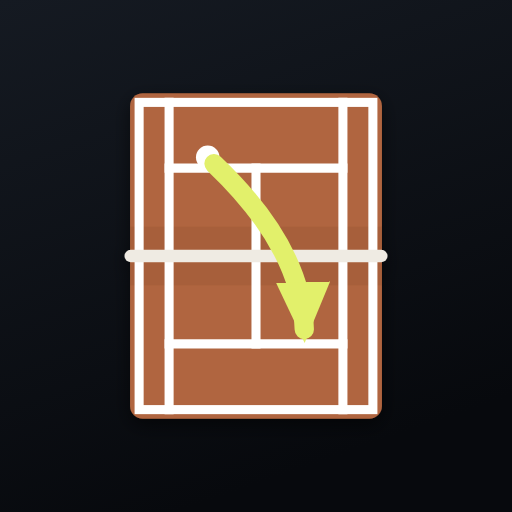
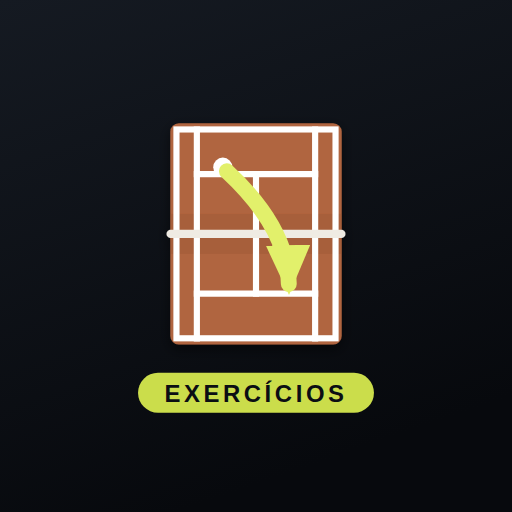
JV verde-limao na Gestao e no Aluno, e EXERCICIOS escrito na quadra
Os tres apps da JV ficam lado a lado na tela de inicio. A arte da Gestao e
do Aluno continua a original: mudou so' o "JV", que era branco e agora e'
limao (#DDEE66, o mesmo tom do risco sob a marca, um pouco mais claro que o
"TENIS" abaixo dele). A pastilha embaixo ja' separava um do outro.

O ICONE DO BANCO ganhou a mesma pastilha, com EXERCICIOS escrito, e a
quadra encolheu para abrir lugar para ela. A borda limao recuou para
0.072 do lado, como a dos outros dois, para os tres terem o mesmo peso
na tela. Na versao maskable a escala caiu de 0.82 para 0.72: com a
pastilha o desenho ficou mais largo, e as pontas dela passavam do circulo
seguro que o Android recorta. Conferido por contagem de pixels: nenhum
pixel de desenho fora do circulo.

ferramentas/pintar-jv-limao.py faz a repintura. Ele troca a cor de todo
pixel claro e sem cor, mantendo o brilho de cada um, para que a sombra e
as bordas suavizadas nao mudem. Rodar de novo e' seguro: sobram uns dez
pixels de borda, que mudam de um tom e param.

banco-exercicios-jv.html entrou no .gitignore. E' o arquivo unico gerado
para o Netlify, e o site publico sai deste repositorio — commitar esse
arquivo poria o material de formacao no ar.

Claude-Session: https://claude.ai/code/session_014FKkHpNzg71Vb3bUZ4TcyT

Changed region(s): [[0.25, 0.1562, 0.75, 0.8438]]

diff --git a/ferramentas/gerar-icone-exercicios.js b/ferramentas/gerar-icone-exercicios.js
@@ -3,8 +3,9 @@
    Por que existe: os apps da JV usam todos o mesmo logo, e na tela de inicio
    do celular viram tres icones iguais. Este aqui se diferencia pelo ASSUNTO —
    a quadra de saibro vista de cima, com o trajeto da bola — que e' exatamente
-   a linguagem dos 116 desenhos do banco. A familia se mantem pelo preto e pelo
-   verde-limao da marca (tirados do proprio icone da Gestao).
+   a linguagem dos 116 desenhos do banco. A familia se mantem pelo preto, pelo
+   verde-limao da marca e pela pastilha com o nome embaixo — os tres detalhes
+   tirados do proprio icone da Gestao, que tem "GESTAO" escrito no mesmo lugar.
 
    Uso, a partir da raiz do repositorio:
        node ferramentas/gerar-icone-exercicios.js
@@ -41,13 +42,29 @@ function quadra(cx, cy, larg, alt){
 }
 
 /* O trajeto da bola: a assinatura dos desenhos do banco. */
-function trajeto(S, k){
+function trajeto(S){
+  const cy = 0.440;                 // o mesmo centro da quadra
   return `
-    <circle cx="${S*(0.5-0.115*k)}" cy="${S*(0.5-0.235*k)}" r="${S*0.028*k}" fill="#fff"/>
-    <path d="M ${S*(0.5-0.10*k)} ${S*(0.5-0.22*k)}
-             Q ${S*(0.5+0.11*k)} ${S*(0.5-0.02*k)} ${S*(0.5+0.115*k)} ${S*(0.5+0.175*k)}"
-      fill="none" stroke="${LIMA_CLARO}" stroke-width="${S*0.046*k}" stroke-linecap="round"
+    <circle cx="${S*(0.5-0.090)}" cy="${S*(cy-0.181)}" r="${S*0.026}" fill="#fff"/>
+    <path d="M ${S*(0.5-0.079)} ${S*(cy-0.170)}
+             Q ${S*(0.5+0.086)} ${S*(cy-0.017)} ${S*(0.5+0.089)} ${S*(cy+0.136)}"
+      fill="none" stroke="${LIMA_CLARO}" stroke-width="${S*0.043}" stroke-linecap="round"
       marker-end="url(#pta)"/>`;
+}
+
+/* A pastilha com o nome, na mesma altura em que a Gestao e o Aluno trazem a
+   delas: encostada na borda de baixo, limao com a letra escura. */
+function rotulo(S){
+  const larg = S*0.64, alt = S*0.108;
+  const x = (S-larg)/2, y = S*0.925 - alt;
+  return `
+    <g>
+      <rect x="${x}" y="${y}" width="${larg}" height="${alt}" rx="${alt/2}" fill="${LIMA}"/>
+      <text x="${S*0.5}" y="${y+alt*0.72}" text-anchor="middle"
+            font-family="Liberation Sans, Arial, sans-serif" font-weight="700"
+            font-size="${alt*0.60}" letter-spacing="${alt*0.09}"
+            fill="#0B0E13">EXERC\u00cdCIOS</text>
+    </g>`;
 }
 
 /* `mascara` = versao para Android, que recorta o icone num circulo: o desenho
@@ -57,7 +74,9 @@ function svgIcone(S, mascara){
   // mascara deles. Arredondar aqui tambem arredondava duas vezes, e sobrava
   // uma casquinha preta na borda do icone na tela de inicio.
   const r = 0;
-  const k = mascara ? 0.82 : 1;               // escala do conteudo
+  // 0.72 e nao 0.82: com a pastilha, o desenho ficou mais largo e mais alto,
+  // e as pontas dela passavam do circulo seguro que o Android recorta.
+  const k = mascara ? 0.72 : 1;               // escala do conteudo
   return `<svg xmlns="http://www.w3.org/2000/svg" width="${S}" height="${S}" viewBox="0 0 ${S} ${S}">
     <defs>
       <linearGradient id="fundo" x1="0" y1="0" x2="0.35" y2="1">
@@ -70,10 +89,13 @@ function svgIcone(S, mascara){
       </filter>
     </defs>
     <rect width="${S}" height="${S}" rx="${r}" fill="url(#fundo)"/>
-    ${mascara ? '' : `<rect x="${S*0.052}" y="${S*0.052}" width="${S*0.896}" height="${S*0.896}"
+    ${mascara ? '' : `<rect x="${S*0.072}" y="${S*0.072}" width="${S*0.856}" height="${S*0.856}"
       rx="${S*0.17}" fill="none" stroke="${LIMA}" stroke-width="${S*0.026}"/>`}
-    <g filter="url(#sombra)">${quadra(S*0.5, S*0.5, S*0.60*k, S*0.775*k)}</g>
-    ${trajeto(S, k)}
+    <g transform="translate(${S*0.5} ${S*0.5}) scale(${k}) translate(${-S*0.5} ${-S*0.5})">
+      <g filter="url(#sombra)">${quadra(S*0.5, S*0.440, S*0.465, S*0.600)}</g>
+      ${trajeto(S)}
+      ${rotulo(S)}
+    </g>
   </svg>`;
 }
 

diff --git a/ferramentas/pintar-jv-limao.py b/ferramentas/pintar-jv-limao.py
@@ -1,0 +1,99 @@
+#!/usr/bin/env python3
+# -*- coding: utf-8 -*-
+"""Pinta de verde-limao o "JV" dos icones e das splashes da JV Tenis.
+
+   Por que existe: os tres apps (Gestao, Aluno e Exercicios) aparecem lado a
+   lado na tela de inicio do celular. O "JV" branco era o mesmo nos dois
+   primeiros; em verde-limao ele fica sendo a mesma marca, mas com a cor da
+   casa, e o rotulo embaixo (GESTAO / ALUNO) continua separando um do outro.
+
+   Como funciona: dentro da arte, so' o "JV" e' branco — o "TENIS", o risco e
+   a borda ja' sao limao, e o fundo e' quase preto. Entao troca-se a cor de
+   todo pixel claro e sem cor (cinza/branco), mantendo o brilho de cada um,
+   para que a sombra e as bordas suavizadas do desenho continuem iguais.
+
+   Rodar de novo e' seguro: depois da primeira passada sobram uns dez pixels
+   da borda suavizada, que mudam de um tom e param — nao ha' acumulo.
+
+   Uso, a partir da raiz do repositorio:
+       python3 ferramentas/pintar-jv-limao.py            # arquivos do repo
+       python3 ferramentas/pintar-jv-limao.py a.png b.png  # arquivos avulsos
+"""
+import sys, os, colorsys
+from PIL import Image
+
+# O limao claro, e nao o #CBDD4B da borda: assim o "JV" continua mais claro
+# que o "TENIS" embaixo dele, como era quando o "JV" ainda era branco.
+LIMA = (0xDD, 0xEE, 0x66)
+
+# Ate' onde um pixel ainda conta como "sem cor" (0 = cinza puro, 1 = cor viva).
+SAT_CHEIA, SAT_ZERO = 0.16, 0.30
+VALOR_MIN = 0.28                 # abaixo disso e sombra do fundo, nao o logo
+
+ARQUIVOS = [
+    'app-gestao/jv-icone-gestao.png',
+    'app-gestao/jv-icone-gestao-192.png',
+    'app-gestao/jv-icone-gestao-512.png',
+    'app-gestao/jv-icone-gestao-mask.png',
+    'app-aluno/jv-icone-aluno.png',
+    'app-aluno/jv-icone-aluno-192.png',
+    'app-aluno/jv-icone-aluno-512.png',
+    'app-aluno/jv-icone-aluno-mask.png',
+]
+ARQUIVOS += ['app-gestao/splash-gestao-%s.png' % t for t in
+             ('750x1334', '828x1792', '1125x2436', '1170x2532',
+              '1179x2556', '1242x2688', '1290x2796')]
+ARQUIVOS += ['app-aluno/splash-aluno-%s.png' % t for t in
+             ('750x1334', '828x1792', '1125x2436', '1170x2532',
+              '1179x2556', '1242x2688', '1290x2796')]
+
+
+def peso(sat):
+    """1 quando o pixel e' cinza, 0 quando ja' tem cor propria."""
+    if sat <= SAT_CHEIA:
+        return 1.0
+    if sat >= SAT_ZERO:
+        return 0.0
+    return (SAT_ZERO - sat) / (SAT_ZERO - SAT_CHEIA)
+
+
+def pintar(caminho):
+    im = Image.open(caminho)
+    modo = im.mode
+    px = im.convert('RGB').load()
+    larg, alt = im.size
+    saida = Image.new('RGB', im.size)
+    sp = saida.load()
+    trocados = 0
+    for y in range(alt):
+        for x in range(larg):
+            r, g, b = px[x, y]
+            h, s, v = colorsys.rgb_to_hsv(r / 255, g / 255, b / 255)
+            w = peso(s) if v >= VALOR_MIN else 0.0
+            if w <= 0:
+                sp[x, y] = (r, g, b)
+                continue
+            # o limao com o mesmo brilho do pixel original
+            alvo = tuple(int(round(c * v)) for c in LIMA)
+            sp[x, y] = tuple(int(round(o * (1 - w) + a * w))
+                             for o, a in zip((r, g, b), alvo))
+            trocados += 1
+    if modo == 'RGBA':
+        saida = saida.convert('RGBA')
+        saida.putalpha(im.split()[-1])
+    saida.save(caminho)
+    return trocados, larg * alt
+
+
+def main(argv):
+    alvos = argv[1:] or ARQUIVOS
+    for caminho in alvos:
+        if not os.path.exists(caminho):
+            print('  faltando: %s' % caminho)
+            continue
+        n, total = pintar(caminho)
+        print('  %-40s %6d px  (%.2f%%)' % (caminho, n, 100 * n / total))
+
+
+if __name__ == '__main__':
+    main(sys.argv)

diff --git a/README.md b/README.md
@@ -60,8 +60,14 @@ gera o conteúdo.
 - **app-exercicios** é PWA (`sw-exercicios.js` + `manifest-exercicios.webmanifest`) e
   **não carrega nada de fora**: sem Firebase, sem biblioteca, sem fonte externa —
   funciona offline desde a primeira abertura. Favoritos e plano de aula ficam no
-  aparelho. O ícone é próprio (quadra de saibro vista de cima) e se gera com
+  aparelho. O ícone é próprio (quadra de saibro vista de cima, com `EXERCÍCIOS`
+  escrito na pastilha de baixo) e se gera com
   `node ferramentas/gerar-icone-exercicios.js` — é o único app da JV que não usa
   o logo, justamente para não virar mais um ícone igual na tela de início.
+- **Os três ícones da JV** se distinguem pela pastilha de baixo (`GESTÃO`,
+  `ALUNO`, `EXERCÍCIOS`). Na Gestão e no Aluno a arte é a original; só o `JV`,
+  que era branco, virou **verde-limão** (`#DDEE66`) — ícones e telas de abertura
+  são repintados por `python3 ferramentas/pintar-jv-limao.py`, que roda em cima
+  dos próprios arquivos e pode ser repetido sem estragar nada.
 - O **site** tem as imagens embutidas em base64 no próprio `index.html`; a pasta
   `site/imagens/` é mantida apenas como cópia dos originais.

diff --git a/app-exercicios/LEIA-ME.md b/app-exercicios/LEIA-ME.md
@@ -210,8 +210,20 @@ esse era o problema a resolver.
 
 Ele se diferencia pelo **assunto**: a quadra de saibro vista de cima com o
 trajeto da bola, que é exatamente a linguagem dos 116 desenhos do banco. A
-família se mantém pelo preto e pelo **verde-limão da marca** (`#CBDD4B`, tirado
-do próprio ícone da Gestão).
+família se mantém por três detalhes tirados do próprio ícone da Gestão: o preto
+do fundo, o **verde-limão da marca** (`#CBDD4B`) na borda e a **pastilha com o
+nome** encostada na borda de baixo — onde a Gestão escreve `GESTÃO` e o Aluno
+escreve `ALUNO`, este escreve `EXERCÍCIOS`.
+
+Os outros dois continuam com a arte original; a única mudança lá foi o **`JV`,
+que era branco e agora é limão** (`#DDEE66`, o mesmo tom do risco sob a marca,
+um pouco mais claro que o `TÊNIS` logo abaixo). Quem faz isso é:
+
+```sh
+python3 ferramentas/pintar-jv-limao.py
+```
+
+que repinta os ícones e as splashes da Gestão e do Aluno.
 
 Para gerar de novo, depois de mexer no desenho:
 
